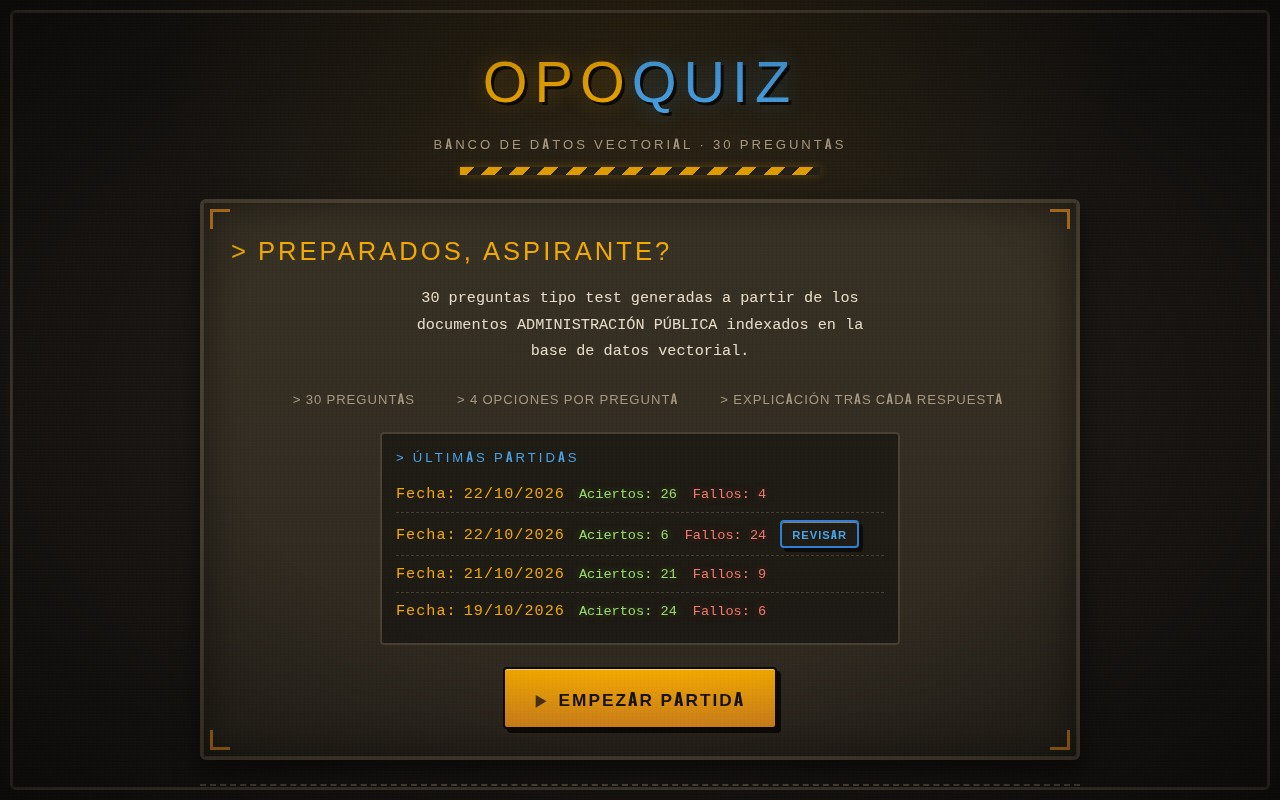
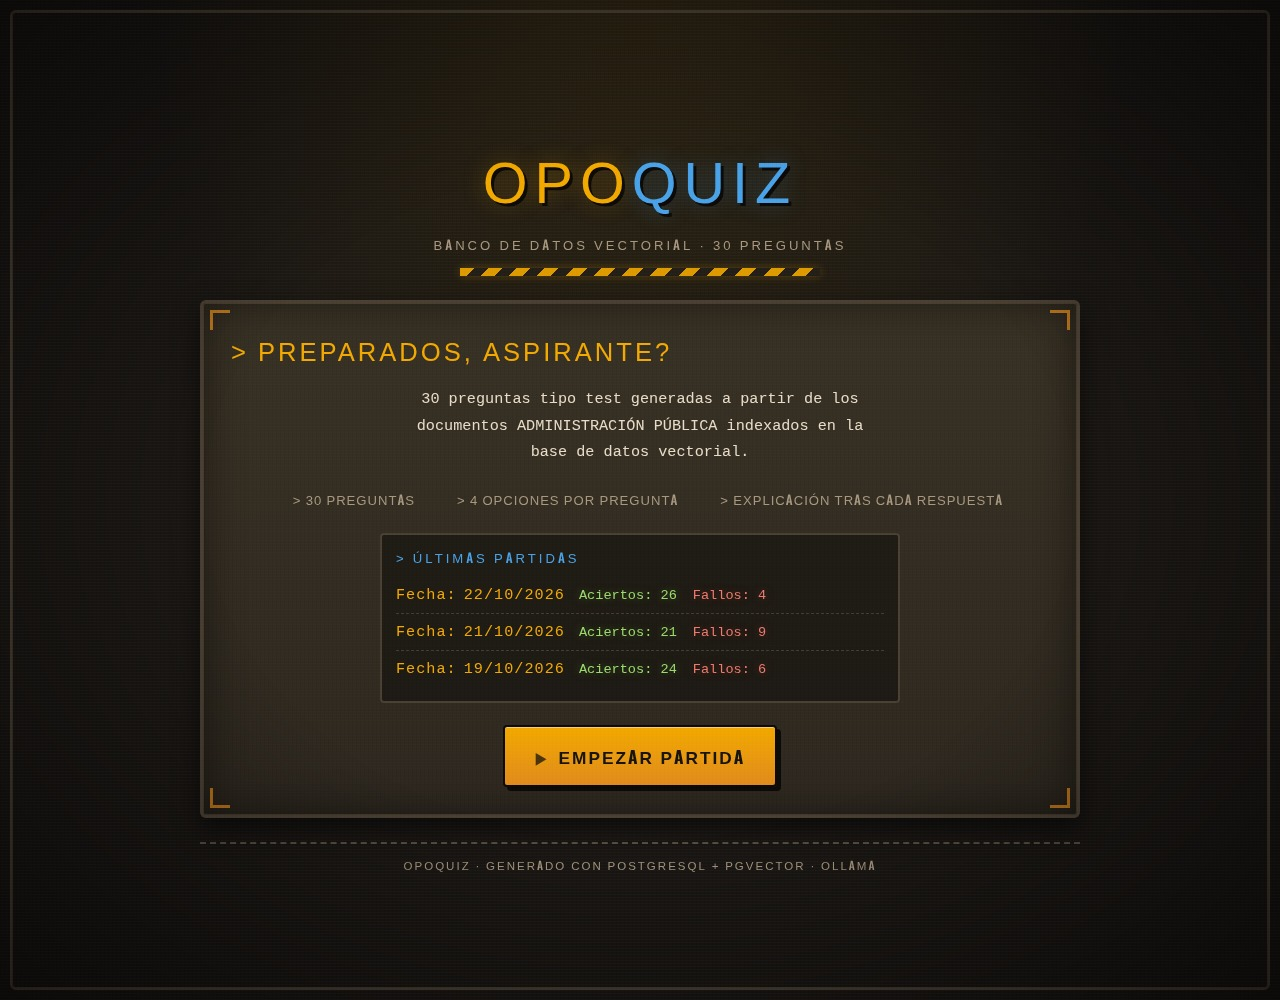
Corregidas las capturas del README: ahora son las que dice el texto
Tres capturas no mostraban lo que anunciaba su pie:
- quiz-acierto.jpg era idéntica a quiz-fallo.jpg (las dos con un fallo):
  al contestar una pregunta, pinchar otra opción no cambia el estado, así
  que las dos capturas salieron del mismo momento
- final.jpg no era la pantalla final, sino la pregunta 2: el botón
  SIGUIENTE está oculto hasta contestar y el script se detenía ahí
- quiz-inicio.jpg salía con una opción resaltada por el :hover del ratón y
  con una pregunta del pool que contiene una fuga de inglés

Capturas nuevas, hechas buscando la opción correcta por su texto contra
window.bancoPreguntas, para que cada una muestre de verdad su estado:
- inicio.jpg: historial de ejemplo limpio (26/4, 21/9, 24/6)
- quiz-inicio.jpg: pregunta sin contestar, sin ningún color
- quiz-fallo.jpg: elegida en rojo, correcta en verde y explicación
- quiz-acierto.jpg: solo la correcta en verde y explicación
- final.jpg: 29 / 30 (97%) con REVISAR PARTIDA, VOLVER A EMPEZAR e INICIO
- revision.jpg: la partida de ese mismo 29/30 (29 aciertas, 1 fallo)
- movil-quiz.jpg: enunciado, opciones y correcta en verde a 390 px

El pie de cada imagen se reescribe para describir exactamente lo que se ve,
y se añade la de la pregunta sin contestar (regla de no adelantar la
respuesta). Se elimina movil-inicio.jpg, que no se usaba.
.playwright-mcp/ pasa al .gitignore.

diff --git a/README.md b/README.md
@@ -15,27 +15,38 @@ años 50 (Fallout).
 
 ## Capturas
 
-**Pantalla de inicio** con el historial de las últimas partidas:
+**Pantalla de inicio** con el historial de las últimas partidas: fecha, aciertos
+en verde y fallos en rojo. Las partidas que guardan su detalle tienen un botón
+**REVISAR**.
 
 ![Pantalla de inicio](docs/capturas/inicio.jpg)
 
-**Pregunta contestada**: la opción correcta en verde, la fallada en rojo y la
-explicación del por qué:
+**Pregunta sin contestar**: ninguna opción lleva color, porque no se puede
+adelantar la respuesta correcta ni su explicación.
+
+![Pregunta sin contestar](docs/capturas/quiz-inicio.jpg)
+
+**Pregunta acertada**: la opción correcta en verde, con su marca de acierto, y la
+explicación del por qué.
 
 ![Pregunta acertada](docs/capturas/quiz-acierto.jpg)
 
+**Pregunta fallada**: la elegida en rojo, la correcta en verde y la explicación.
+
 ![Pregunta fallada](docs/capturas/quiz-fallo.jpg)
 
-**Pantalla final** con la puntuación, la revisión y el reinicio:
+**Pantalla final** con la puntuación, el botón para revisar la partida, el de
+volver a empezar y el de volver al inicio.
 
 ![Pantalla final](docs/capturas/final.jpg)
 
 **Revisión de la partida**: las 30 preguntas con la correcta, la elegida y la
-explicación, filtrables por acierto, fallo o sin contestar:
+explicación de cada una, filtrables por acierto, fallo o sin contestar.
 
 ![Revisión de la partida](docs/capturas/revision.jpg)
 
-**Vista móvil** (390 px):
+**Vista móvil** (390 px): el enunciado, las opciones y la explicación siguen
+leyéndose sin desbordar.
 
 ![Vista móvil](docs/capturas/movil-quiz.jpg)
 
